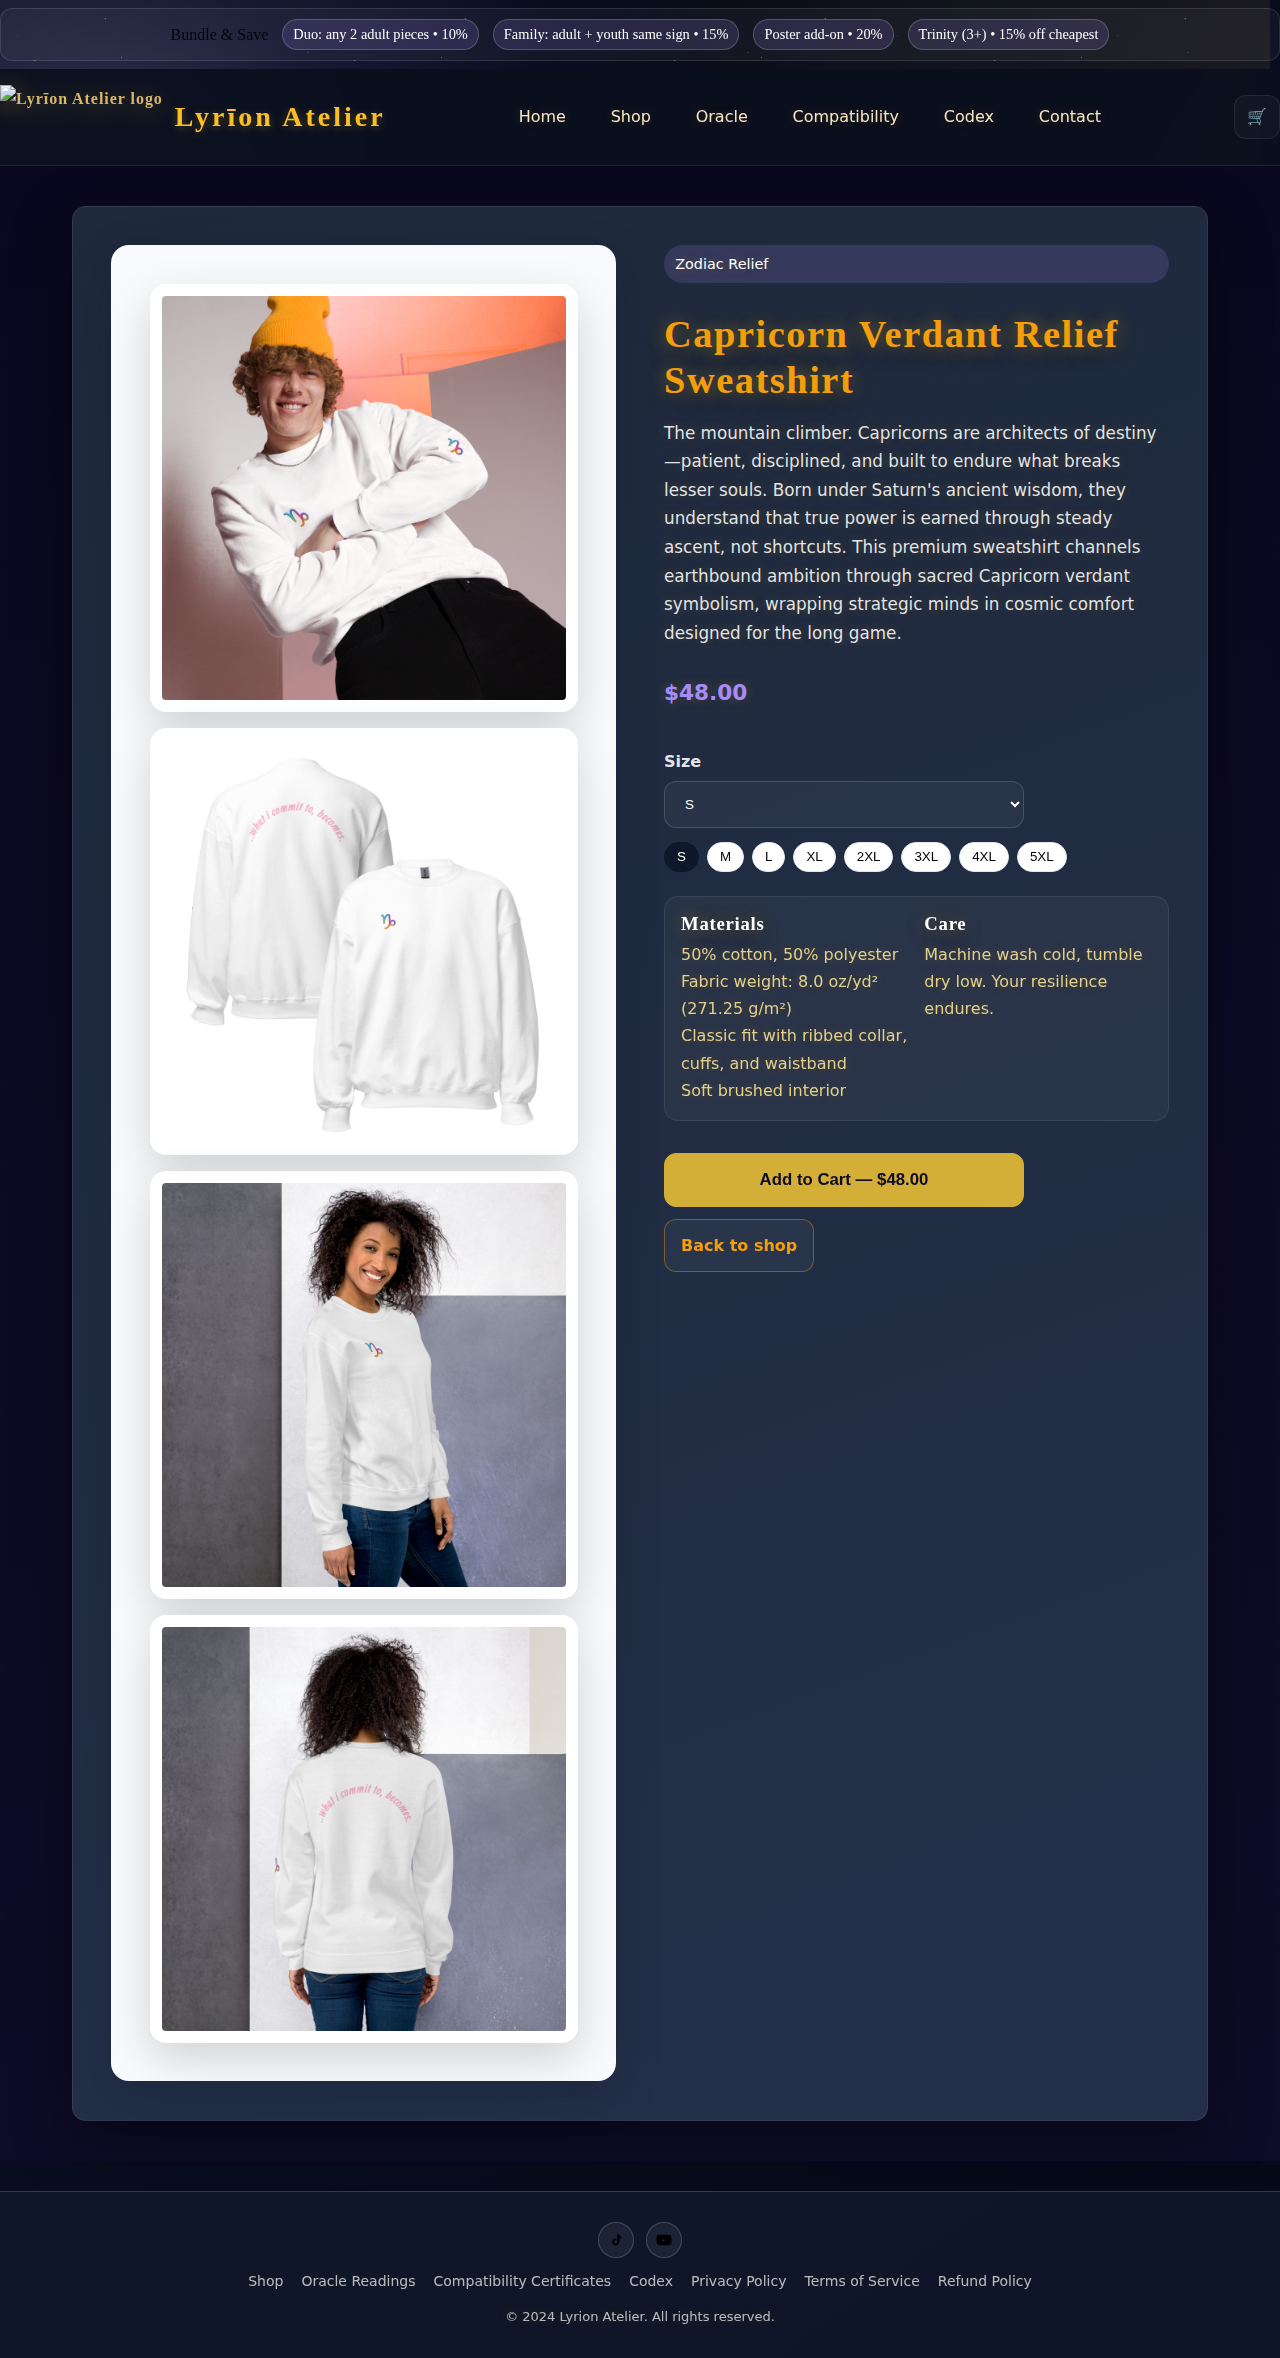
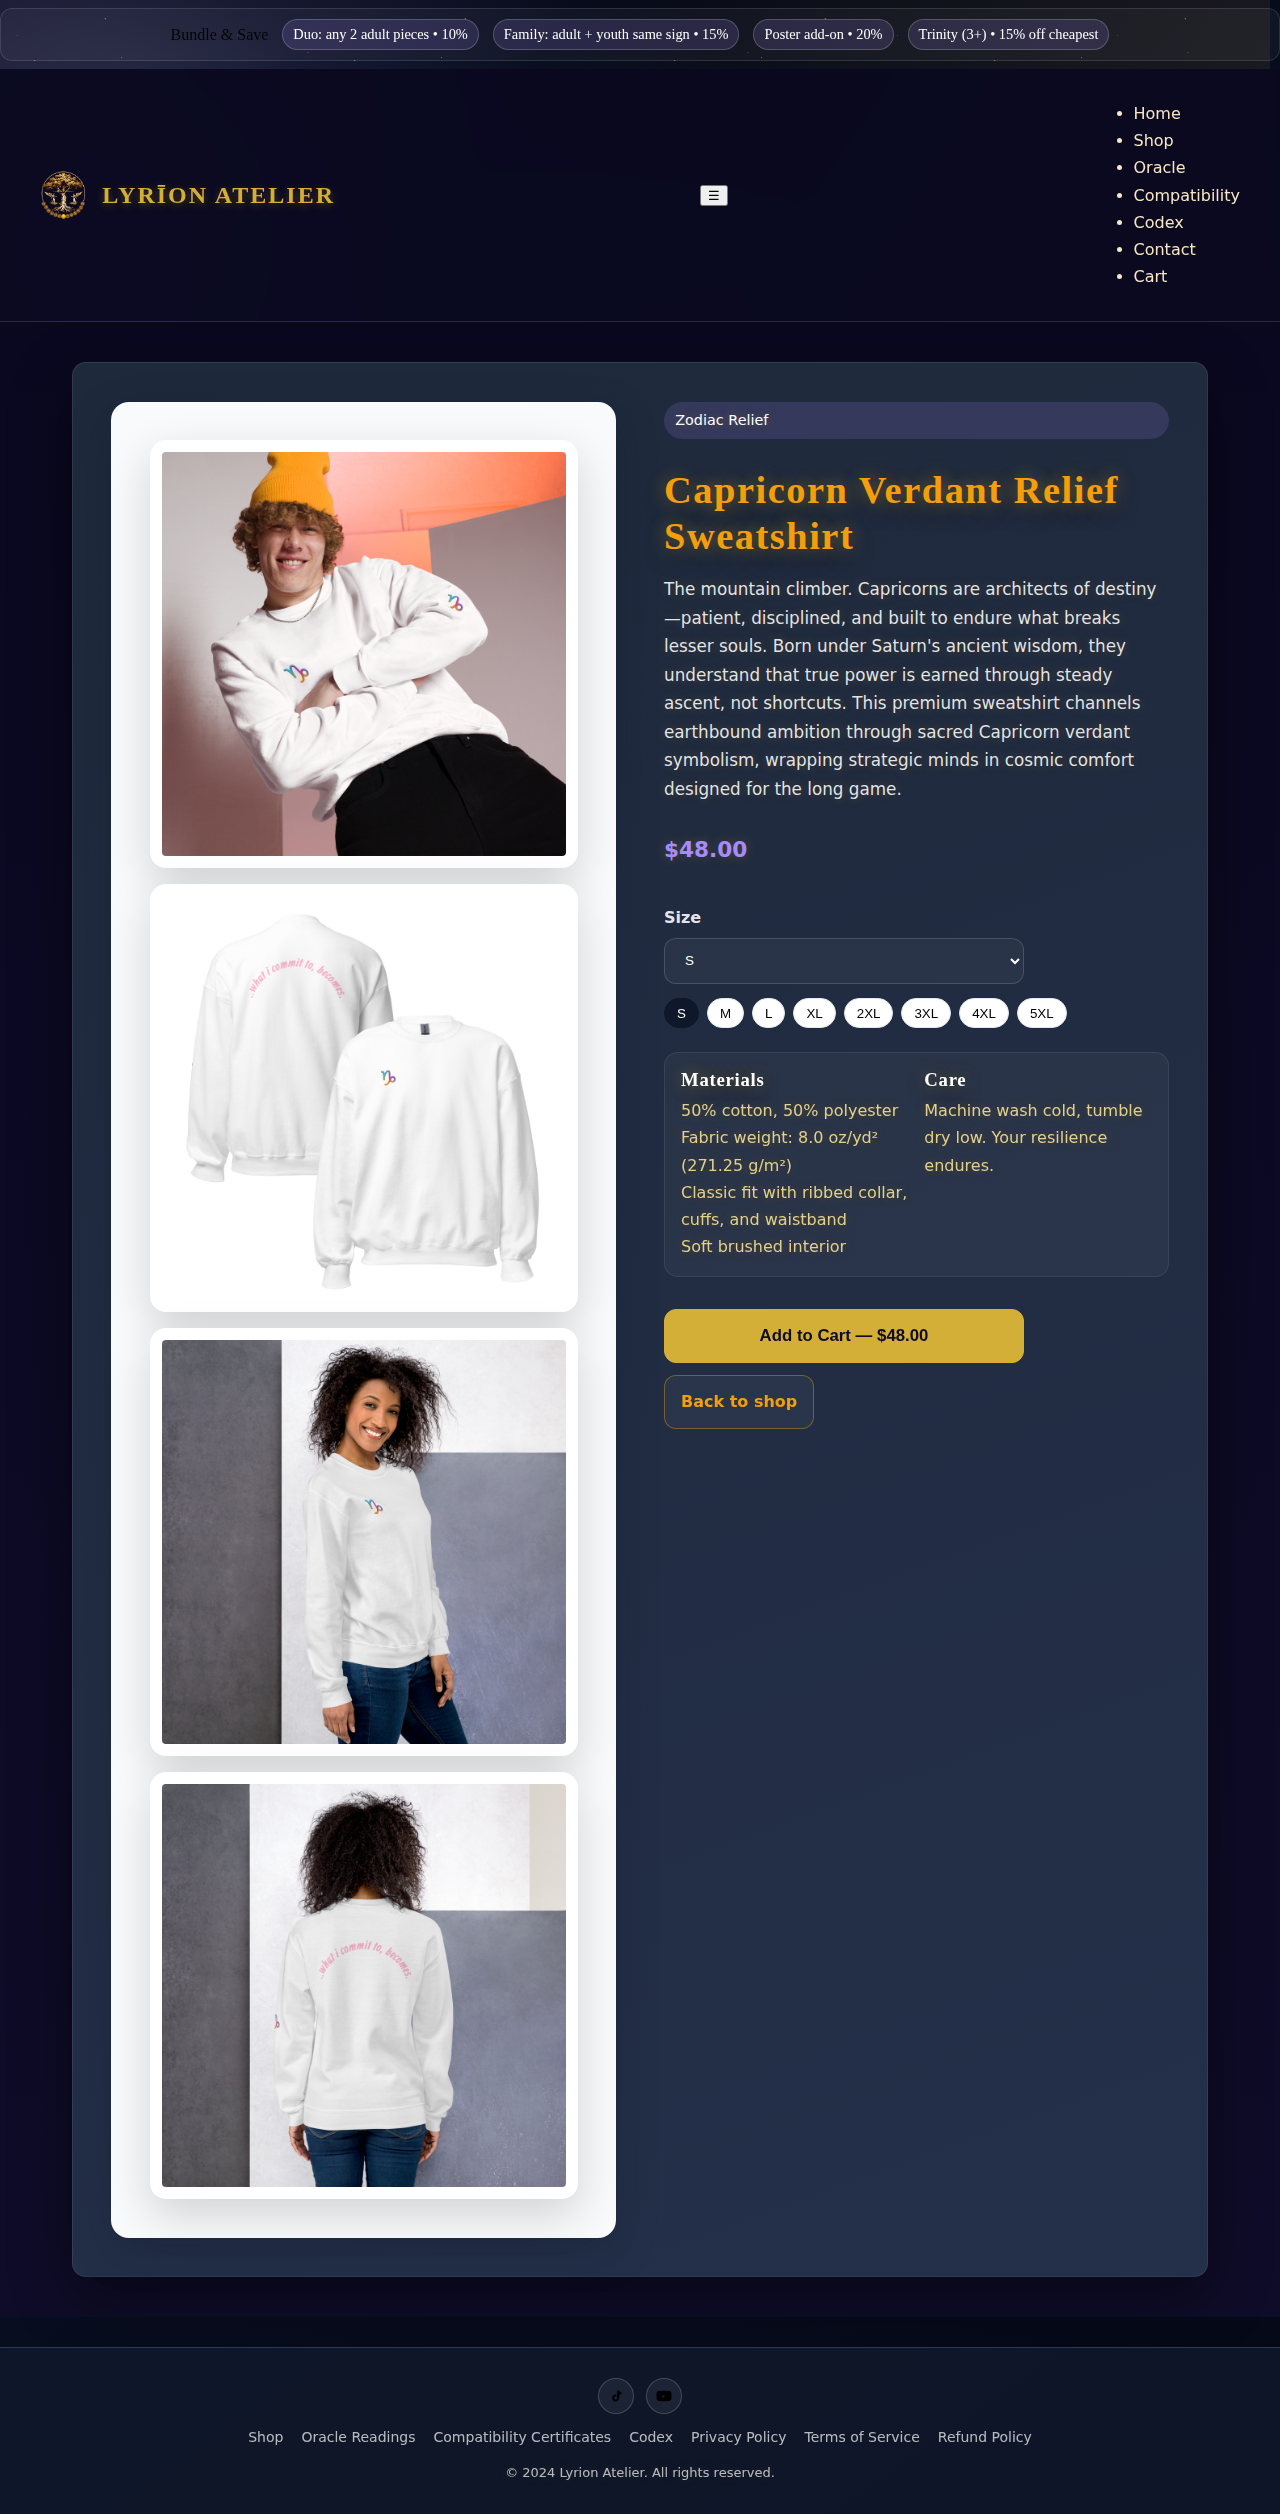
chore: restore homepage header markup

diff --git a/index.html b/index.html
@@ -21,11 +21,7 @@
       <span class="brand-name">LYRĪON ATELIER</span>
     </a>
 
-    <button class=\"nav-toggle\" aria-expanded=\"false\" aria-label=\"Toggle navigation\">
-      ☰
-    </button>
-
-    <ul class=\"nav-links\" role=\"menubar\">
+    <ul class="nav-links" role="menubar">
       <li><a href="/" role="menuitem">Home</a></li>
       <li><a href="/shop" role="menuitem">Shop</a></li>
       <li><a href="/oracle" role="menuitem">Oracle</a></li>
